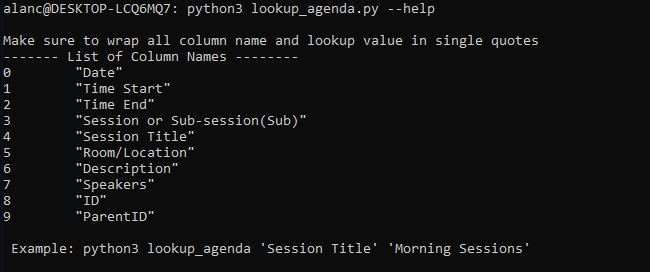
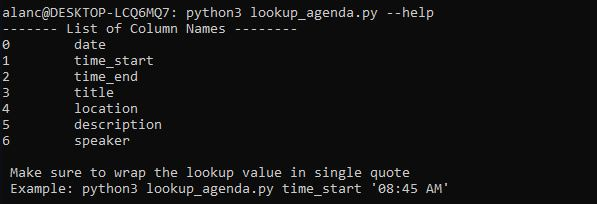
update user parameter and example pics
updated user parameter to match database headers

Changed region(s): [[0.0, 0.0, 0.8442, 0.9706]]

diff --git a/agenda_import/lookup_agenda.py b/agenda_import/lookup_agenda.py
@@ -6,35 +6,37 @@ from db_table import db_table
 conn = sqlite3.connect("interview_test.db")
 cur = conn.cursor()
 
+mykey = ['date', 'time_start', 'time_end', 'title', 'location', 'description', 'speaker']
+myvalue = ['Date','Time Start','Time End','Session Title','Room/Location','Description','Speakers']
+lookup_table = {x:"\""+y+"\"" for x,y in zip(mykey, myvalue)}
 if len(sys.argv) == 2 and sys.argv[1] == '--help':
-    cur.execute("PRAGMA table_info(users)")
-    print("\nMake sure to wrap all column name and lookup value in single quotes")
     print("------- List of Column Names --------")
-    ans = cur.fetchall()
-    for x in range(len(ans)):
-        print(x,'\t', "\"" +(ans[x])[1].replace("\n","\\n") +"\"")
-    print("\n Example: python3 lookup_agenda 'Session Title' 'Morning Sessions'\n")
-    # print(sys.argv)
+    for x in range(len(mykey)):
+        print(x,'\t', mykey[x])
+    print("\n Make sure to wrap the lookup value in single quote\n Example: python3 lookup_agenda.py time_start '08:45 AM'\n")
     
 elif len(sys.argv) == 3:
-    colmn = "\"" + sys.argv[1].lstrip("*") + "\""
-    data = sys.argv[-1].replace("'", "")
-    conn = sqlite3.connect("interview_test.db")
-    cur = conn.cursor()
-    header = []
-    cur.execute("PRAGMA table_info(users)")
-    ans = cur.fetchall()
-    for x in range(len(ans)):
-        header.append("\"" +(ans[x])[1] +"\"")
-    print("\nTable headers \t", tuple(header))
-    if(colmn == "\"Speakers\""):
-        data = "\"%" + data + "%\""
-        cur.execute("SELECT DISTINCT * FROM users WHERE {} LIKE {} OR ParentID = (SELECT ID FROM users WHERE {} LIKE {}) ORDER BY ID;".format(colmn, data, colmn, data))
+    if sys.argv[1] in mykey:
+        colmn = lookup_table[sys.argv[1]]
+        data = sys.argv[-1].replace("'", "")    # get rid of apostrophes
+        conn = sqlite3.connect("interview_test.db")
+        cur = conn.cursor()
+        header = []
+        cur.execute("PRAGMA table_info(users)")
+        ans = cur.fetchall()
+        for x in range(len(ans)):
+            header.append("\"" +(ans[x])[1] +"\"")
+        print("\nTable headers \t", tuple(header))
+        if(colmn == "\"Speakers\""):
+            data = "\"%" + data + "%\""
+            cur.execute("SELECT DISTINCT * FROM users WHERE {} LIKE {} OR ParentID = (SELECT ID FROM users WHERE {} LIKE {}) ORDER BY ID;".format(colmn, data, colmn, data))
+        else:
+            data = "\"" + data + "\""
+            cur.execute("SELECT DISTINCT * FROM users WHERE {} = {} OR ParentID = (SELECT ID FROM users WHERE {} = {}) ORDER BY ID;".format(colmn, data, colmn, data))
+        rows = cur.fetchall()
+        print("-----------Results----------")
+        for x in range(len(rows)):
+            print(x, "\t", rows[x])
+            print("\n")
     else:
-        data = "\"" + data + "\""
-        cur.execute("SELECT DISTINCT * FROM users WHERE {} = {} OR ParentID = (SELECT ID FROM users WHERE {} = {}) ORDER BY ID;".format(colmn, data, colmn, data))
-    rows = cur.fetchall()
-    print("-----------Results----------")
-    for x in range(len(rows)):
-        print(x, "\t", rows[x])
-        print("\n")
+        print("Invalid Command")

diff --git a/agenda_import/README.md b/agenda_import/README.md
@@ -15,6 +15,6 @@ Make sure to have the following python libraries installed
 ![](https://github.com/achen173/Whova/blob/master/agenda_import/Pictures/example_help.JPG)
 
 Example:
-> python3 lookup_agenda.py 'Time Start' '08:45 AM'
+> python3 lookup_agenda.py time_start '08:45 AM'
 > 
 ![](https://github.com/achen173/Whova/blob/master/agenda_import/Pictures/example_lookup.JPG)
